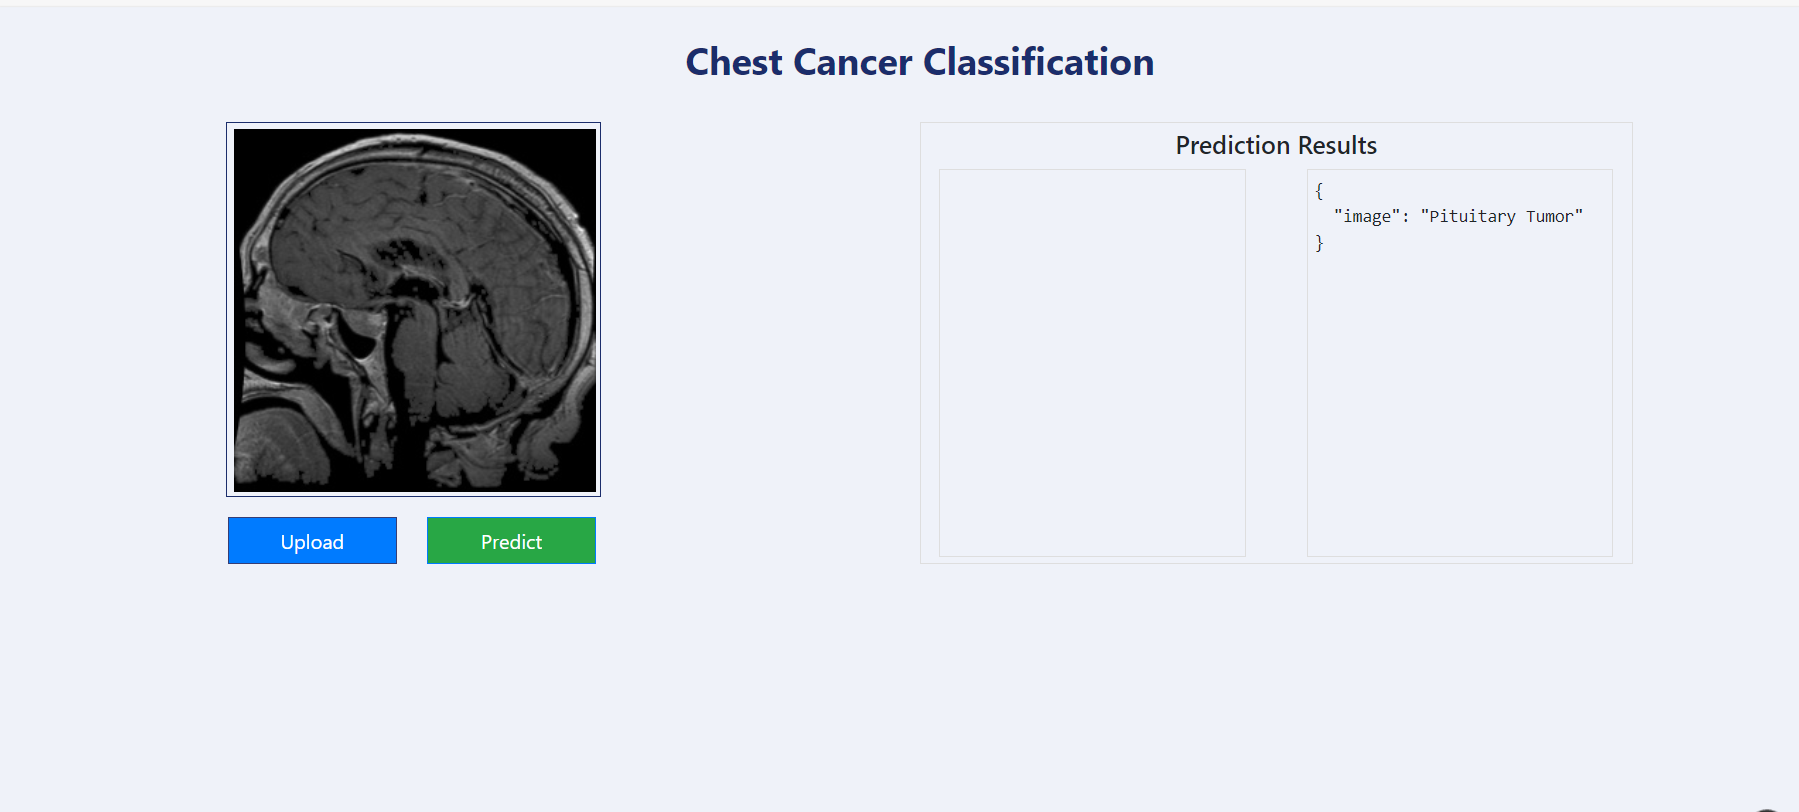
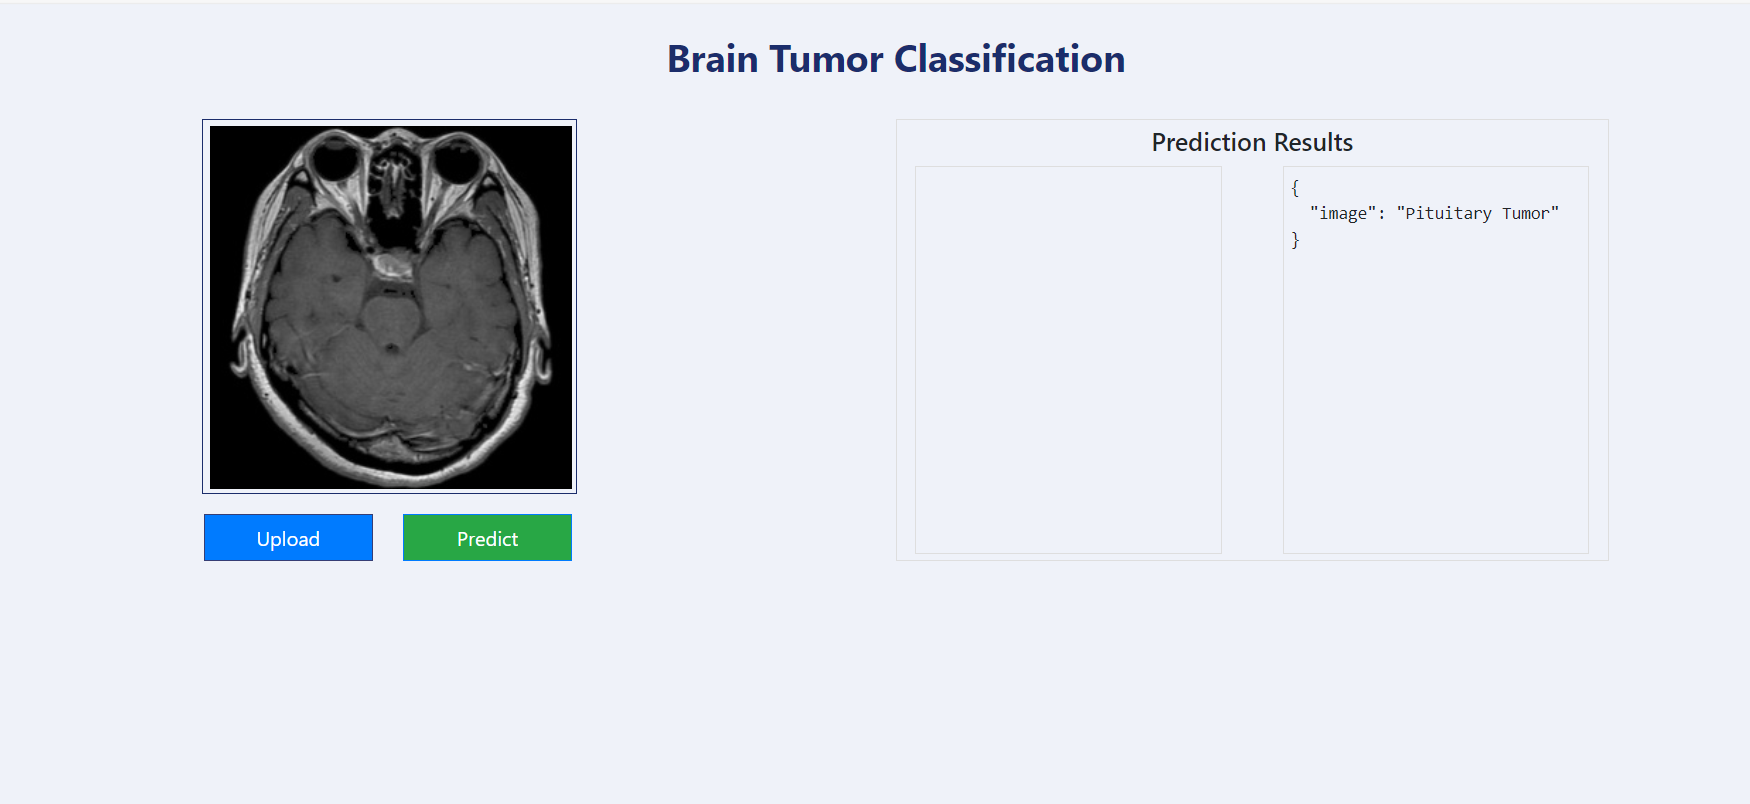
readme updated

diff --git a/templates/index.html b/templates/index.html
@@ -94,7 +94,7 @@
 <body>
     <div class="main container">
 		<section class="iupload">
-			<h3 class="text-center py-4">Chest Cancer Classification</h3>
+			<h3 class="text-center py-4">Brain Tumor Classification</h3>
 			<div class="row">
 				<div class="img-part col-md-6">
 					<div class="image-part">
